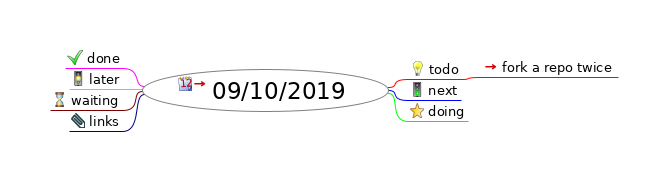
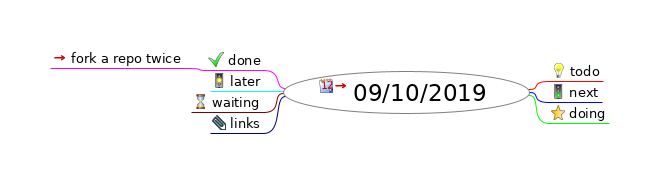
DEFAULT_MESSAGE

Changed region(s): [[0.0607, 0.2762, 0.9408, 0.7459], [0.7587, 0.5525, 0.7891, 0.5801], [0.2428, 0.5525, 0.2731, 0.5801]]

diff --git a/2019/10/09/index.html b/2019/10/09/index.html
@@ -23,16 +23,16 @@
                    };
                };
           
-          --></script></head><body><h1>09/10/2019</h1><div style="width:96%;  padding:2%;  margin-bottom:10px;  border: 0px;  text-align:center;  vertical-align:center;"><img src="index.html_files/image.png" style="margin-bottom:10px; &#9;border: 0px; &#9;text-align:center; &#9;vertical-align:center;" alt="Imagemap" usemap="#fm_imagemap" /></div><map name="fm_imagemap" id="fm_imagemap"><area shape="rect" href="../index.html" alt="09/10/2019" title="09/10/2019" coords="142,69,389,112" />
-<area shape="rect" href="" alt="todo" title="todo" coords="408,61,462,79" />
-<area shape="rect" href="forking%20twice.html" alt="fork a repo twice" title="fork a repo twice" coords="481,59,618,77" />
-<area shape="rect" href="" alt="next" title="next" coords="408,82,461,100" />
-<area shape="rect" href="" alt="doing" title="doing" coords="408,103,468,121" />
-<area shape="rect" href="" alt="done" title="done" coords="65,50,123,68" />
-<area shape="rect" href="" alt="later" title="later" coords="69,71,123,89" />
-<area shape="rect" href="" alt="waiting" title="waiting" coords="50,92,123,110" />
-<area shape="rect" href="" alt="links" title="links" coords="69,113,123,131" />
+          --></script></head><body><h1>09/10/2019</h1><div style="width:96%;  padding:2%;  margin-bottom:10px;  border: 0px;  text-align:center;  vertical-align:center;"><img src="index.html_files/image.png" style="margin-bottom:10px; &#9;border: 0px; &#9;text-align:center; &#9;vertical-align:center;" alt="Imagemap" usemap="#fm_imagemap" /></div><map name="fm_imagemap" id="fm_imagemap"><area shape="rect" href="../index.html" alt="09/10/2019" title="09/10/2019" coords="283,71,530,114" />
+<area shape="rect" href="#FMID_1619268815FM" alt="todo" title="todo" coords="549,63,603,81" />
+<area shape="rect" href="#FMID_1860705291FM" alt="next" title="next" coords="549,84,602,102" />
+<area shape="rect" href="#FMID_287960880FM" alt="doing" title="doing" coords="549,105,609,123" />
+<area shape="rect" href="#FMID_311812770FM" alt="done" title="done" coords="206,52,264,70" />
+<area shape="rect" href="forking%20twice.html" alt="fork a repo twice" title="fork a repo twice" coords="50,50,187,68" />
+<area shape="rect" href="#FMID_1967568057FM" alt="later" title="later" coords="210,73,264,91" />
+<area shape="rect" href="#FMID_1412269978FM" alt="waiting" title="waiting" coords="191,94,264,112" />
+<area shape="rect" href="#FMID_1084236118FM" alt="links" title="links" coords="210,115,264,133" />
 </map>
 
-<div class="node"><img src="index.html_files/hide.png" class="hideshow" alt="hide" onClick="toggle(&quot;N65543&quot;)" id="imgN65543" /><img src="index.html_files/icons/calendar.svg" alt="calendar" /> <a id="FMID_1087036541FM" /><div class="nodecontent" style="color:#000000;font-size:150%;"><a href="../index.html">09/10/2019</a> <a href="../index.html"><img src="index.html_files/ilink.png" alt="User Link" style="border-width:0" /></a></div><div class="content" id="N65543"><div class="node"><img src="index.html_files/hide.png" class="hideshow" alt="hide" onClick="toggle(&quot;N66445&quot;)" id="imgN66445" /><img src="index.html_files/icons/idea.svg" alt="idea" /> <a id="FMID_1619268815FM" /><div class="nodecontent" style="color:#000000;font-size:83%;">todo</div><div class="content" id="N66445"><div class="node"><img src="index.html_files/leaf.png" class="hideshow" alt="leaf" /><a id="FMID_1022467528FM" /><div class="nodecontent" style="color:#000000;font-size:83%;"><a href="forking%20twice.html">fork a repo twice</a> <a href="forking%20twice.html"><img src="index.html_files/ilink.png" alt="User Link" style="border-width:0" /></a></div></div></div></div><div class="node"><img src="index.html_files/leaf.png" class="hideshow" alt="leaf" /><img src="index.html_files/icons/go.svg" alt="go" /> <a id="FMID_1860705291FM" /><div class="nodecontent" style="color:#000000;font-size:83%;">next</div></div><div class="node"><img src="index.html_files/leaf.png" class="hideshow" alt="leaf" /><img src="index.html_files/icons/bookmark.svg" alt="bookmark" /> <a id="FMID_287960880FM" /><div class="nodecontent" style="color:#000000;font-size:83%;">doing</div></div><div class="node"><img src="index.html_files/leaf.png" class="hideshow" alt="leaf" /><img src="index.html_files/icons/button_ok.svg" alt="button_ok" /> <a id="FMID_311812770FM" /><div class="nodecontent" style="color:#000000;font-size:83%;">done</div></div><div class="node"><img src="index.html_files/leaf.png" class="hideshow" alt="leaf" /><img src="index.html_files/icons/prepare.svg" alt="prepare" /> <a id="FMID_1967568057FM" /><div class="nodecontent" style="color:#000000;font-size:83%;">later</div></div><div class="node"><img src="index.html_files/leaf.png" class="hideshow" alt="leaf" /><img src="index.html_files/icons/hourglass.svg" alt="hourglass" /> <a id="FMID_1412269978FM" /><div class="nodecontent" style="color:#000000;font-size:83%;">waiting</div></div><div class="node"><img src="index.html_files/leaf.png" class="hideshow" alt="leaf" /><img src="index.html_files/icons/attach.svg" alt="attach" /> <a id="FMID_1084236118FM" /><div class="nodecontent" style="color:#000000;font-size:83%;">links</div></div></div></div>
+<div class="node"><img src="index.html_files/hide.png" class="hideshow" alt="hide" onClick="toggle(&quot;N65543&quot;)" id="imgN65543" /><img src="index.html_files/icons/calendar.svg" alt="calendar" /> <a id="FMID_1087036541FM" /><div class="nodecontent" style="color:#000000;font-size:150%;"><a href="../index.html">09/10/2019</a> <a href="../index.html"><img src="index.html_files/ilink.png" alt="User Link" style="border-width:0" /></a></div><div class="content" id="N65543"><div class="node"><img src="index.html_files/leaf.png" class="hideshow" alt="leaf" /><img src="index.html_files/icons/idea.svg" alt="idea" /> <a id="FMID_1619268815FM" /><div class="nodecontent" style="color:#000000;font-size:83%;">todo</div></div><div class="node"><img src="index.html_files/leaf.png" class="hideshow" alt="leaf" /><img src="index.html_files/icons/go.svg" alt="go" /> <a id="FMID_1860705291FM" /><div class="nodecontent" style="color:#000000;font-size:83%;">next</div></div><div class="node"><img src="index.html_files/leaf.png" class="hideshow" alt="leaf" /><img src="index.html_files/icons/bookmark.svg" alt="bookmark" /> <a id="FMID_287960880FM" /><div class="nodecontent" style="color:#000000;font-size:83%;">doing</div></div><div class="node"><img src="index.html_files/hide.png" class="hideshow" alt="hide" onClick="toggle(&quot;N66571&quot;)" id="imgN66571" /><img src="index.html_files/icons/button_ok.svg" alt="button_ok" /> <a id="FMID_311812770FM" /><div class="nodecontent" style="color:#000000;font-size:83%;">done</div><div class="content" id="N66571"><div class="node"><img src="index.html_files/leaf.png" class="hideshow" alt="leaf" /><a id="FMID_1022467528FM" /><div class="nodecontent" style="color:#000000;font-size:83%;"><a href="forking%20twice.html">fork a repo twice</a> <a href="forking%20twice.html"><img src="index.html_files/ilink.png" alt="User Link" style="border-width:0" /></a></div></div></div></div><div class="node"><img src="index.html_files/leaf.png" class="hideshow" alt="leaf" /><img src="index.html_files/icons/prepare.svg" alt="prepare" /> <a id="FMID_1967568057FM" /><div class="nodecontent" style="color:#000000;font-size:83%;">later</div></div><div class="node"><img src="index.html_files/leaf.png" class="hideshow" alt="leaf" /><img src="index.html_files/icons/hourglass.svg" alt="hourglass" /> <a id="FMID_1412269978FM" /><div class="nodecontent" style="color:#000000;font-size:83%;">waiting</div></div><div class="node"><img src="index.html_files/leaf.png" class="hideshow" alt="leaf" /><img src="index.html_files/icons/attach.svg" alt="attach" /> <a id="FMID_1084236118FM" /><div class="nodecontent" style="color:#000000;font-size:83%;">links</div></div></div></div>
 </body></html>

diff --git a/2019/10/09/index.mm b/2019/10/09/index.mm
@@ -68,7 +68,6 @@
 <node TEXT="todo" POSITION="right" ID="ID_1619268815" CREATED="1570617338458" MODIFIED="1570617338461">
 <icon BUILTIN="idea"/>
 <edge COLOR="#ff0000"/>
-<node TEXT="fork a repo twice" ID="ID_1022467528" CREATED="1570617482981" MODIFIED="1570618168947" LINK="forking%20twice.mm"/>
 </node>
 <node TEXT="next" POSITION="right" ID="ID_1860705291" CREATED="1570617338462" MODIFIED="1570617338464">
 <icon BUILTIN="go"/>
@@ -77,15 +76,11 @@
 <node TEXT="doing" POSITION="right" ID="ID_287960880" CREATED="1570617338466" MODIFIED="1570617338471">
 <icon BUILTIN="bookmark"/>
 <edge COLOR="#00ff00"/>
-<node TEXT="script" ID="ID_1724461238" CREATED="1570619226454" MODIFIED="1570619227848">
-<node TEXT="get files" ID="ID_1806887629" CREATED="1570619232836" MODIFIED="1570619234329"/>
-<node TEXT="sub .mm&quot; to .html&quot;" ID="ID_1760254848" CREATED="1570619290005" MODIFIED="1570619304258"/>
-<node TEXT="get IDS" ID="ID_1450728453" CREATED="1570619323098" MODIFIED="1570619326061"/>
-</node>
 </node>
 <node TEXT="done" POSITION="left" ID="ID_311812770" CREATED="1570617338473" MODIFIED="1570617338475">
 <icon BUILTIN="button_ok"/>
 <edge COLOR="#ff00ff"/>
+<node TEXT="fork a repo twice" ID="ID_1022467528" CREATED="1570617482981" MODIFIED="1570618168947" LINK="forking%20twice.mm"/>
 </node>
 <node TEXT="later" POSITION="left" ID="ID_1967568057" CREATED="1570617338478" MODIFIED="1570617338485">
 <icon BUILTIN="prepare"/>
